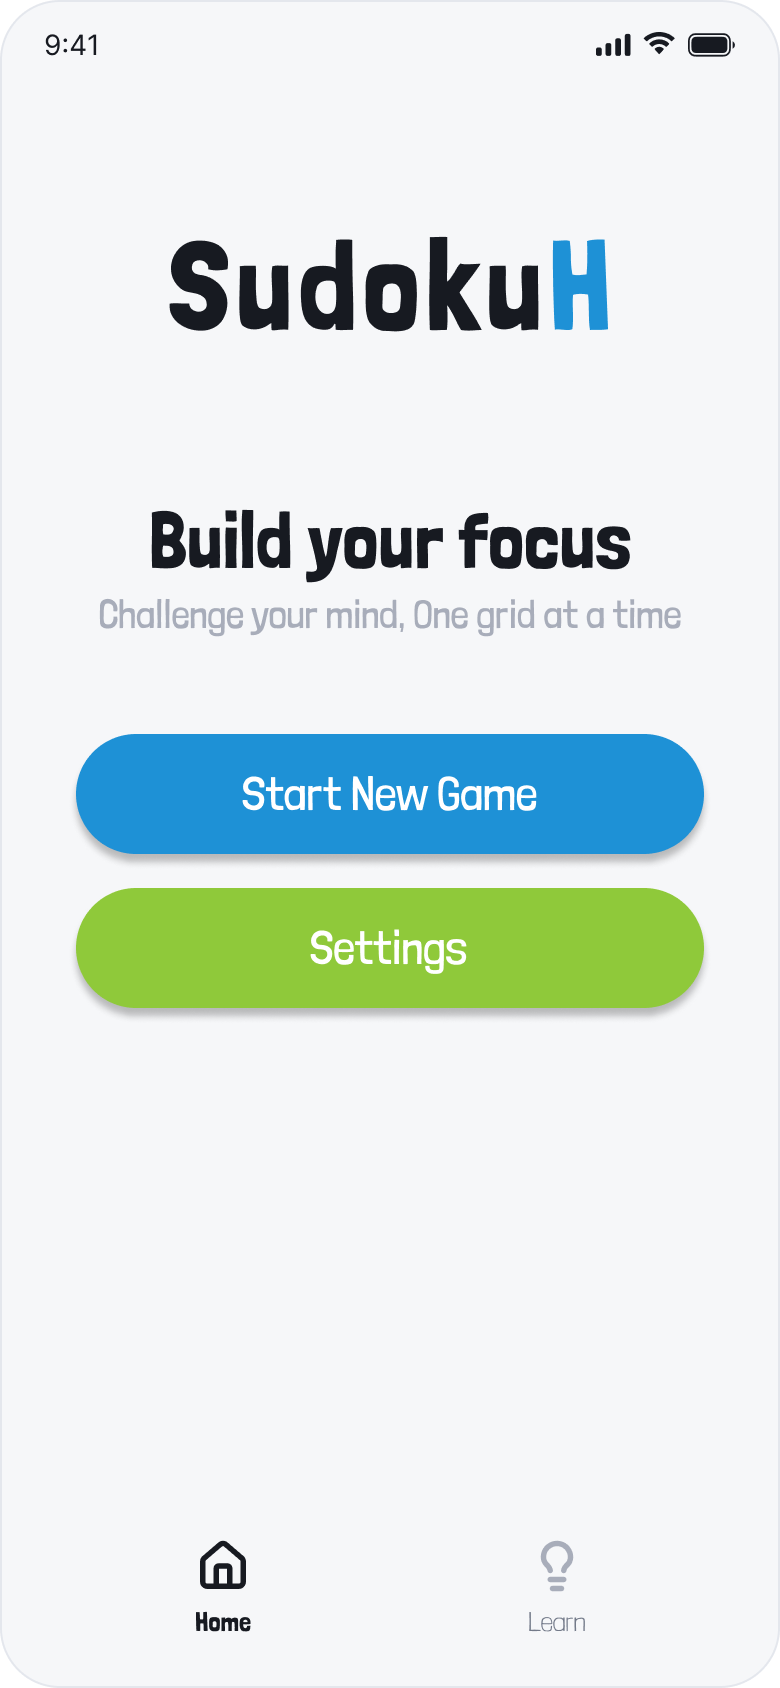
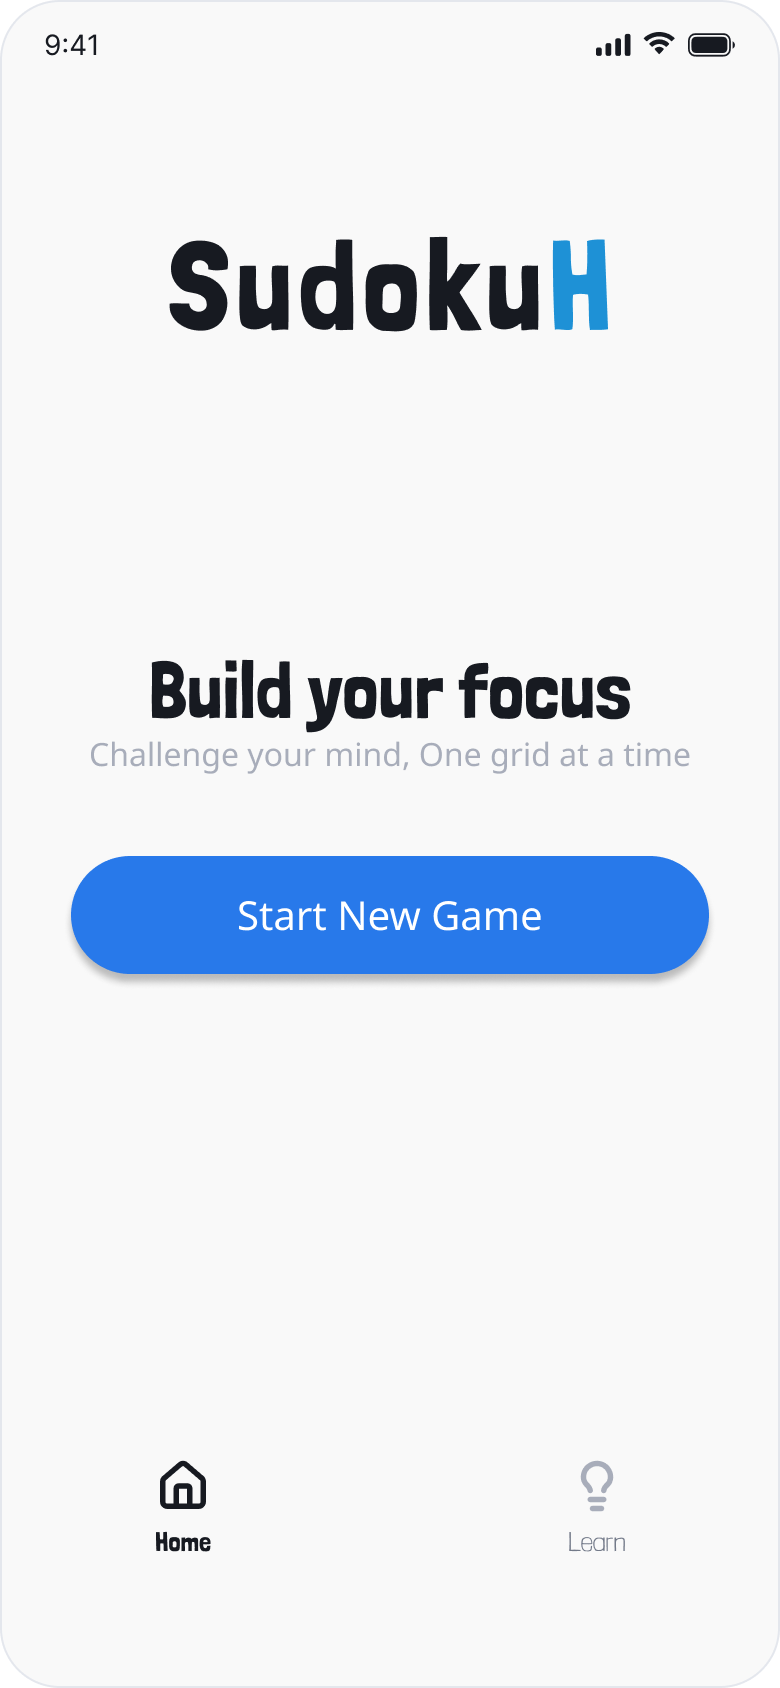
UI:Loading screen animation added & single move validation logic implemented

Changed region(s): [[0.0923, 0.2773, 0.9231, 0.6161], [0.1846, 0.8626, 0.3385, 0.9858], [0.6769, 0.8626, 0.8, 0.9858]]

diff --git a/lib/screens/loading_screen.dart b/lib/screens/loading_screen.dart
@@ -1,0 +1,91 @@
+import 'package:flutter/material.dart';
+import 'package:hsudoku/theme/app_theme.dart';
+import 'package:hsudoku/screens/game_screen.dart';
+
+class LoadingScreen extends StatefulWidget {
+  const LoadingScreen({super.key});
+
+  @override
+  State<LoadingScreen> createState() => _LoadingScreenState();
+}
+
+class _LoadingScreenState extends State<LoadingScreen>
+    with SingleTickerProviderStateMixin {
+  late AnimationController _controller;
+  late List<Animation<double>> _blockAnimations;
+
+  @override
+  void initState() {
+    super.initState();
+    _controller = AnimationController(
+      vsync: this,
+      duration: const Duration(milliseconds: 1200),
+    )..repeat();
+
+    _blockAnimations = List.generate(4, (index) {
+      final start = index * 0.15;
+      final end = start + 0.5;
+      return TweenSequence<double>([
+        TweenSequenceItem(tween: Tween(begin: 0.2, end: 1.0), weight: 1),
+        TweenSequenceItem(tween: Tween(begin: 1.0, end: 0.2), weight: 1),
+      ]).animate(
+        CurvedAnimation(
+          parent: _controller,
+          curve: Interval(start.clamp(0.0, 1.0), end.clamp(0.0, 1.0)),
+        ),
+      );
+    });
+
+    Future.delayed(const Duration(seconds: 2), () {
+    if (mounted) {
+      Navigator.pushReplacement(
+        context,
+        MaterialPageRoute(builder: (context) => const GameScreen()),
+      );
+    }
+    });
+  }
+
+  @override
+  void dispose() {
+    _controller.dispose();
+    super.dispose();
+  }
+
+  @override
+  Widget build(BuildContext context){
+    final text=Theme.of(context).textTheme;
+    return Scaffold(
+      backgroundColor: AppColors.backgroundColor,
+      body:Center(
+        child: Column(
+          mainAxisAlignment: MainAxisAlignment.center,
+          children: [
+            Row(
+              mainAxisAlignment: MainAxisAlignment.center,
+              children:List.generate(4, (index){
+                return Padding(
+                  padding: EdgeInsets.fromLTRB(space.xs, space.s, space.xs, space.s),                  child: FadeTransition(
+                    opacity: _blockAnimations[index],
+                    child: Container(
+                      width: 20,
+                      height: 20,
+                      decoration: BoxDecoration(
+                        color:AppColors.primaryAppColor,
+                        // borderRadius: BorderRadius.circular(4),
+                      ),
+                    ),
+                  ),
+                );
+              }),
+            ),
+    const SizedBox(height:space.xs),
+    Text(
+      "Generating puzzle...",
+      style: text.bodyMedium),
+          ],
+        ),
+      ),
+    );
+  }   
+}

diff --git a/lib/logic/sudoku_validator.dart b/lib/logic/sudoku_validator.dart
@@ -1,3 +1,16 @@
+List<int> boxDimensions(int n){
+    int boxRows=1;
+    int boxCols=n;
+    for(int i=2;i<=n;i++){
+        if(n%i==0){
+            boxRows=i;
+            boxCols=n~/i;
+        }
+        if(boxRows<=boxCols) break;
+    }
+    return [boxRows,boxCols];
+}
+
 //Checking the duplicates in row
 bool rowsValid(List<List<int>> grid, int n){
     for(int i=0;i<n;i++){
@@ -34,33 +47,26 @@ bool colsValid(List<List<int>> grid, int n){
 
 //Checking the duplicates in box
 bool boxesValid(List<List<int>> grid, int n){
-    int boxRows=1;
-    int boxCols=n;
-    for(int i=2;i<=n;i++){
-        if(n%i==0){
-            boxRows=i;
-            boxCols=n~/i;
-        }
-        if(boxRows<=boxCols) break;
-    }
-    
-    for(int startRow=0;startRow<n;startRow+=boxRows){
-        for(int startCol=0;startCol<n;startCol+=boxCols){
+  List<int> dim=boxDimensions(n);
+  int boxRows=dim[0];
+  int boxCols=dim[1];
+  for(int startRow=0;startRow<n;startRow+=boxRows){
+      for(int startCol=0;startCol<n;startCol+=boxCols){
 
-            Set<int> inBox={};
-            for(int i=startRow;i<startRow+boxRows;i++){
-                for(int j=startCol;j<startCol+boxCols;j++){
-                    if(grid[i][j]==0) continue;
-                    if(inBox.contains(grid[i][j])){
-                    return false;
-                    }else{
-                        inBox.add(grid[i][j]);
-                    } 
-                }
-            }
-        }
-    }
-    return true;
+          Set<int> inBox={};
+          for(int i=startRow;i<startRow+boxRows;i++){
+              for(int j=startCol;j<startCol+boxCols;j++){
+                  if(grid[i][j]==0) continue;
+                  if(inBox.contains(grid[i][j])){
+                  return false;
+                  }else{
+                      inBox.add(grid[i][j]);
+                  } 
+              }
+          }
+      }
+  }
+  return true;
 }
 
 bool isValid(List<List<int>> grid){

diff --git a/lib/logic/single_move_check.dart b/lib/logic/single_move_check.dart
@@ -1,0 +1,28 @@
+import 'package:hsudoku/logic/sudoku_validator.dart';
+
+bool isMoveValid(List<List<int>> grid, int row, int col, int n){
+  List<int> dim=boxDimensions(n);
+  int boxRows = dim[0];
+  int boxCols = dim[1];
+  int isRow=0;
+  int isCol=0;
+  int isBox=0;
+  
+  int value=grid[row][col];
+  for(int i=0;i<n;i++){
+    if(grid[row][i]==value) isRow++;
+  }
+  for(int j=0;j<n;j++){
+    if(grid[j][col]==value) isCol++;
+  }
+
+  int startRow=(row~/boxRows)*boxRows;
+  int startCol=(col~/boxCols)*boxCols;
+  for(int i=startRow;i<startRow+boxRows;i++){
+    for(int j=startCol;j<startCol+boxCols;j++){
+      if(grid[i][j]==value) isBox++;
+    }
+  }
+  if(isBox>1 || isRow>1 || isCol>1) return false;
+  return true;
+}

diff --git a/lib/screens/home_screen.dart b/lib/screens/home_screen.dart
@@ -1,4 +1,5 @@
 import 'package:flutter/material.dart';
+import 'package:hsudoku/screens/loading_screen.dart';
 import 'package:hsudoku/theme/app_theme.dart';
 import 'package:hsudoku/widgets/app_button.dart';
 
@@ -40,7 +41,12 @@ class HomeScreen extends StatelessWidget{
                 AppButton(
                   label:"New Game",
                   color:AppColors.primaryAppColor,
-                  onPressed:(){},
+                  onPressed:(){
+                    Navigator.push(
+                      context,
+                      MaterialPageRoute(builder: (context) => const LoadingScreen()),
+                    );
+                  },
                 ),
               ],
             ),

diff --git a/lib/screens/learn_screen.dart b/lib/screens/learn_screen.dart
@@ -1,0 +1,17 @@
+import 'package:flutter/material.dart';
+
+class LearnScreen extends StatelessWidget {
+  const LearnScreen({super.key});
+
+  @override
+  Widget build(BuildContext context) {
+    return Scaffold(
+      appBar: AppBar(
+        title: const Text('Learn'),
+      ),
+      body: const Center(
+        child: Text('Sudoku learning content coming soon.'),
+      ),
+    );
+  }
+}

diff --git a/lib/screens/game_screen.dart b/lib/screens/game_screen.dart
@@ -1,0 +1,14 @@
+import 'package:flutter/material.dart';
+
+class GameScreen extends StatelessWidget {
+  const GameScreen({super.key});
+
+  @override
+  Widget build(BuildContext context) {
+    return const Scaffold(
+      body: Center(
+        child: Text("Game Screen - Coming Soon"),
+      ),
+    );
+  }
+}

diff --git a/lib/theme/app_theme.dart b/lib/theme/app_theme.dart
@@ -15,6 +15,7 @@ abstract final class AppFonts{
 }
 
 abstract final class space{
+  static const double xs=4;
   static const double s=8;
   static const double m=16;
   static const double l=24;
